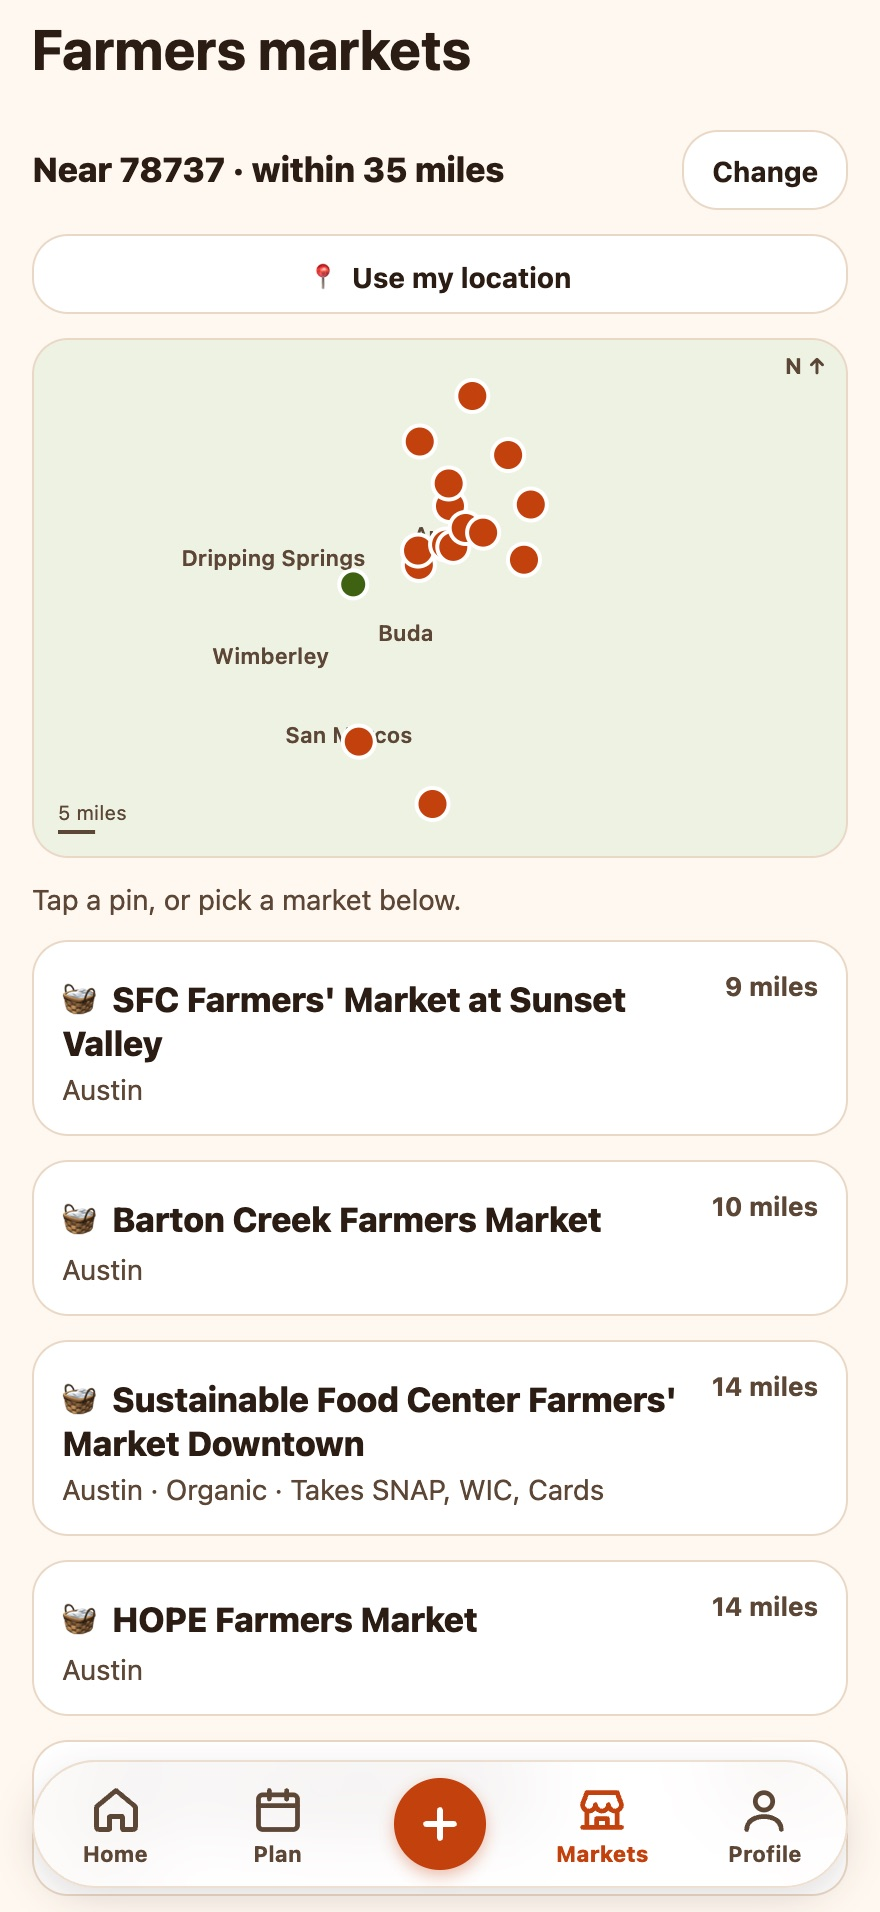
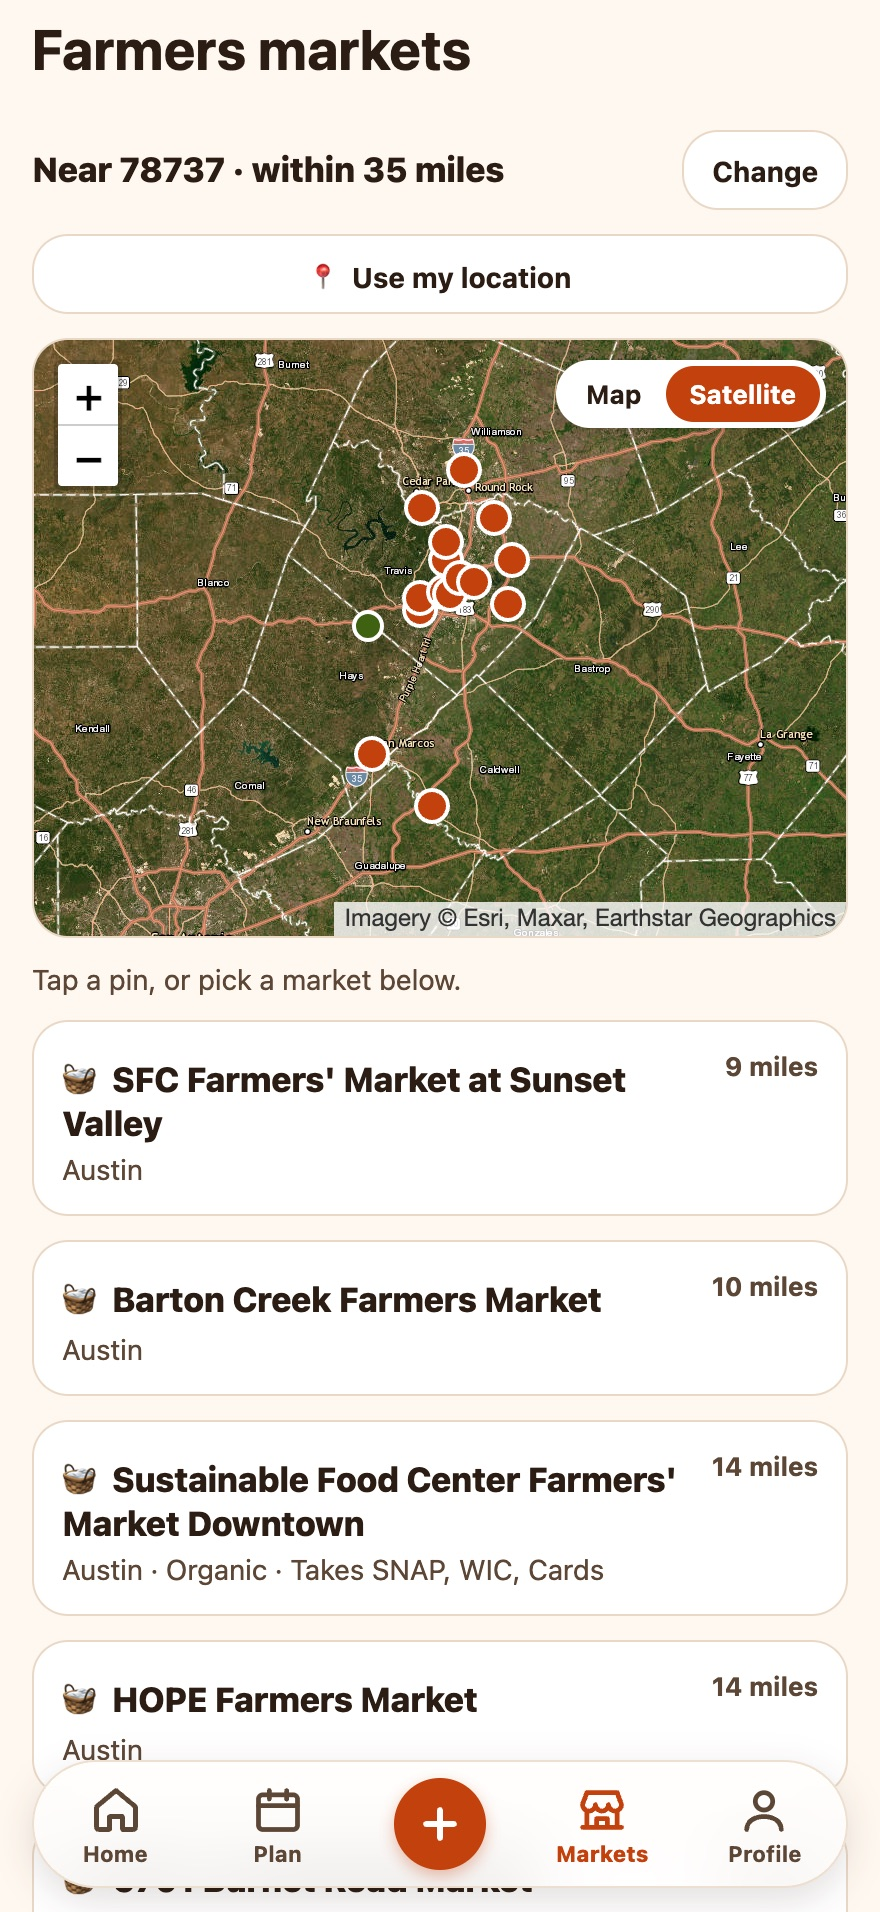
Fresh Potsy and market map screenshots
Claude-Session: https://claude.ai/code/session_01PTRcXb3KwXkFT3FZggBnK5

diff --git a/index.html b/index.html
@@ -83,7 +83,7 @@
           <figure><div class="phone"><img src="/img/screens/recipe.jpg" alt="A recipe page" loading="lazy"></div><figcaption>500+ recipes<span>Cost per serving, every one</span></figcaption></figure>
           <figure><div class="phone"><img src="/img/screens/feed.jpg" alt="The recipe feed" loading="lazy"></div><figcaption>The feed<span>Picked from your answers</span></figcaption></figure>
           <figure><div class="phone"><img src="/img/screens/potsy.jpg" alt="Asking Potsy for dinner ideas" loading="lazy"></div><figcaption>Ask Potsy<span>Ideas in seconds</span></figcaption></figure>
-          <figure><div class="phone"><img src="/img/screens/markets.jpg" alt="Farmers market map" loading="lazy"></div><figcaption>Farmers markets<span>Near you, on a map</span></figcaption></figure>
+          <figure><div class="phone"><img src="/img/screens/markets.jpg" alt="Farmers market map" loading="lazy"></div><figcaption>Farmers markets<span>Map or satellite, near you</span></figcaption></figure>
         </div>
       </div>
     </section>
